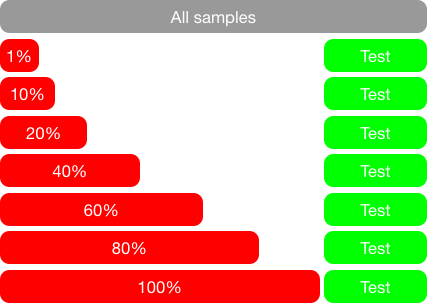
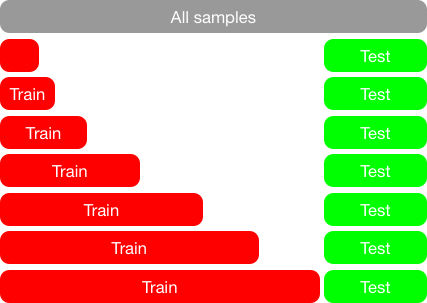
update

diff --git a/logistic_regression.md b/logistic_regression.md
@@ -2,37 +2,26 @@
 
 Another simple yet very effective classifier is the logisitic regression. This classifier is a version of the linear regression model adapted to classification. 
 
-See this introduction to logistic regression by Andew Ng :
-
-* [06.1-LogisticRegression-Classification](https://www.youtube.com/watch?v=LLx4diIP83I) 
-* [06.2-LogisticRegression-HypothesisRepresentation](https://www.youtube.com/watch?v=tEk6ikTKGYU)
-* [06 7 LogisticRegression MultiClassClassificationOneVsAll](https://www.youtube.com/watch?v=07bPqvCevfc)
-
-And to go further : 
-
-* [06.3-LogisticRegression-DecisionBoundary](https://www.youtube.com/watch?v=7F-CuXdTQ5k)
-* [06.4-LogisticRegression-CostFunction](https://www.youtube.com/watch?v=IxotEG3yWHs)
-* [06.5-LogisticRegression-SimplifiedCostFunctionAndGradientDescent](https://www.youtube.com/watch?v=Y2zXH_4_aZs)
+Upload the [template](notebooks/mnist_logreg_template.ipynb) in your jupyter and use it as a starting point.
 
 
-**Question 7** : 
+**Question 1** : 
 
 > Using the MNIST Data and train a [Logistic Regression](http://scikit-learn.org/stable/modules/generated/sklearn.linear_model.LogisticRegression.html) classifier (`clf = linear_model.LogisticRegression()`) on 80% and test on 20% of the samples. Report the accuracy and compare to the best result of the kNN classifier.
 
 The accuracy of the classifiers depends on the size of the training set : the more data, the better accuracy. Will study the impact of the size of the training set on kNN and Logisitic Regression.
 
-For this study, we first separate the data in train/test set with 80%/20% ratio. Then we train the classifier on an increasing training set corresponding to 1%, 10%, 20%, 40%, 60%, 80% and 100% of the original training set. We will always be tested on the same test set (the original one). The following Figure explains the different splits : 
+For this study, we first separate the data in train/test set with 80%/20% ratio. Then we train the classifier on an increasing training set corresponding to the sizes `[20,100,300,600,900,1500,2000]`. We will always be tested on the same test set (the original one). The following Figure explains the different splits : 
 
 <p align="center">
   <img src="images/learning_curve_sets.png" width="300" >
 </p>
 
 
-**Question 8** : 
+**Question 2** : 
 
-> * In the following questions, limit the experiments to 1300 random samples.
->
-> * Report the training and test set accuracies for the 1NN, 2NN, kNN (k being the best value for `k` you previously found) and the Logisitic Regresstion. 
+
+> * Report the training and test set accuracies for the Logisitic Regresstion, 1NN and kNN (k being the best value for `k` you previously found). 
 > * Plot the training curves on a plot similar to : 
 
 <p align="center">
@@ -61,7 +50,7 @@ The pseudo-code for computing the test set mean and standard deviation is:
 
  
 
-**Question 9** : 
+**Question 3** : 
 
 > * Report the mean and standard deviation (use `np.mean` and `np.std`) of the test set accuracy for the 1NN, 2NN, kNN (k being the best value for `k` you previously found) and the Logisitic Regresstion. 
 > * Plot the testing curves (mean accuracy) on a plot with error bars (standard deviation of the accuracy), for example using the pandas [plot function](https://pandas.pydata.org/pandas-docs/stable/visualization.html#plotting-with-error-bars)
